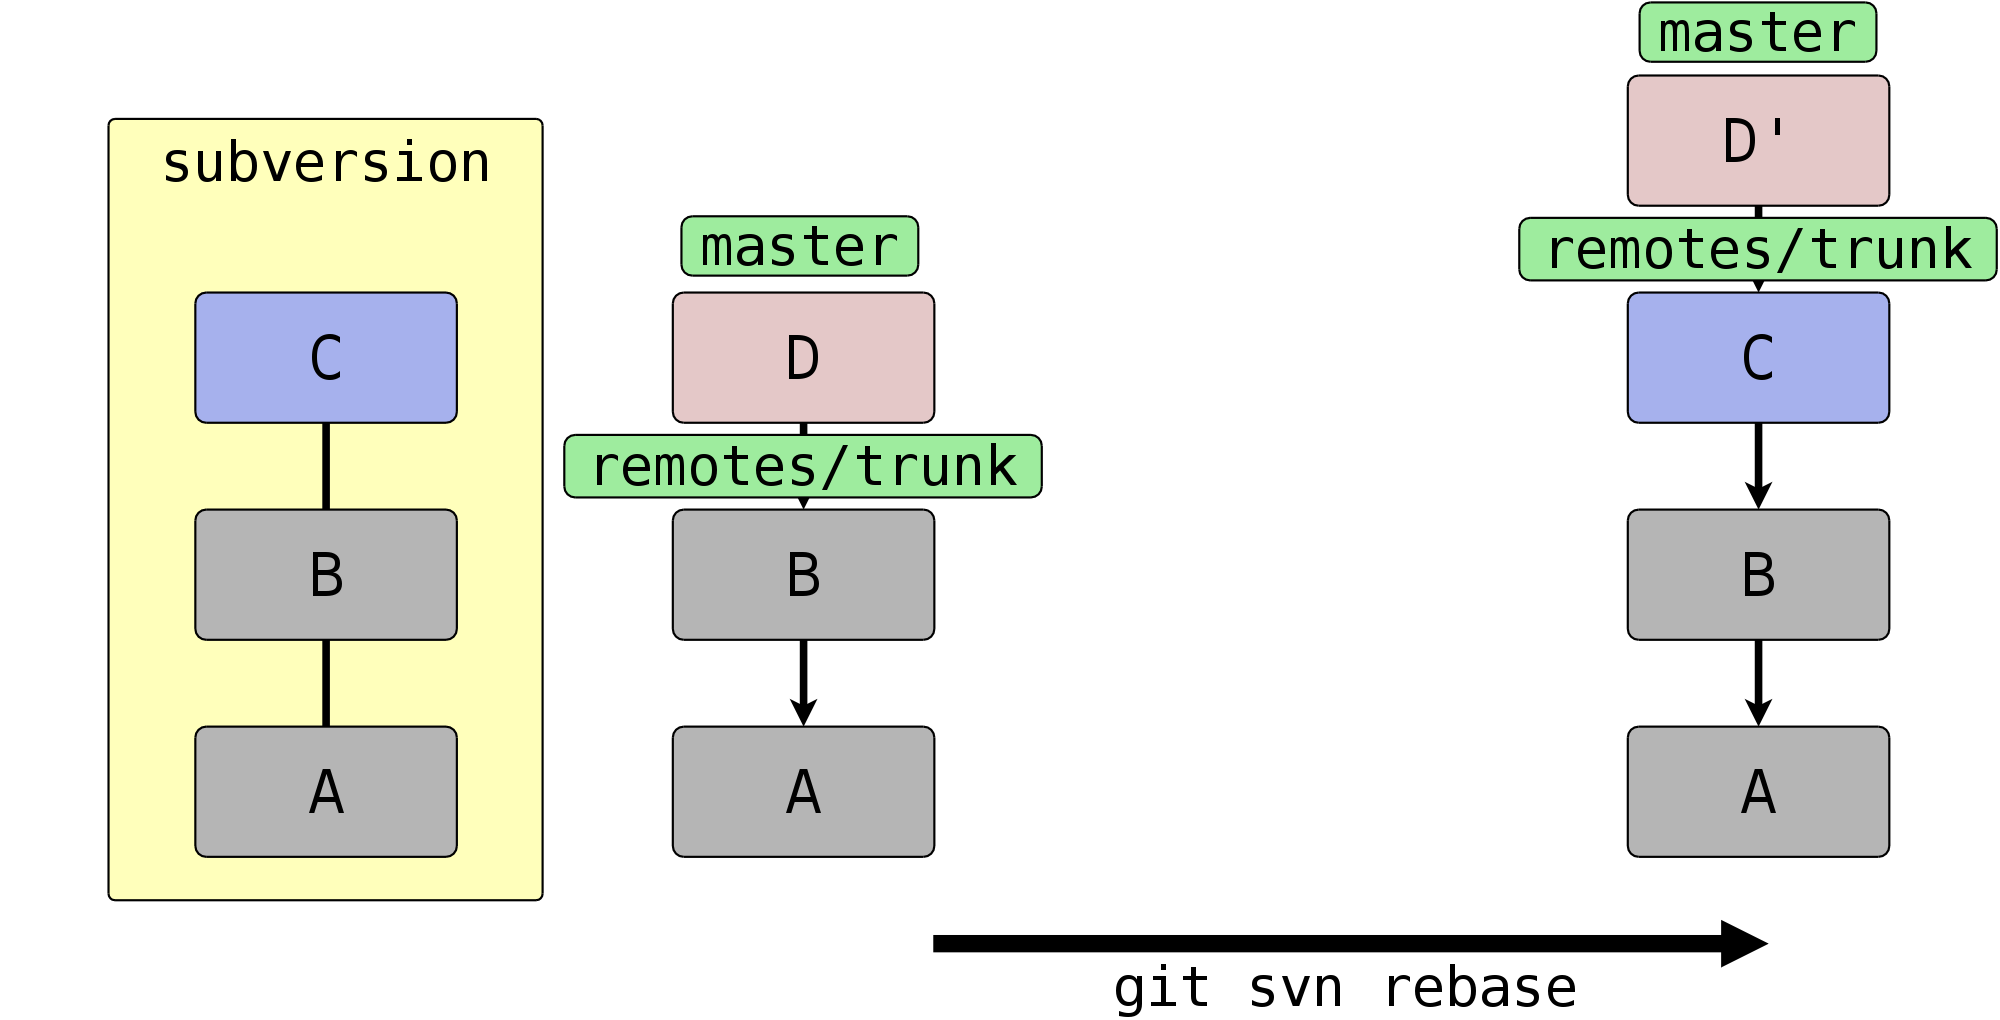
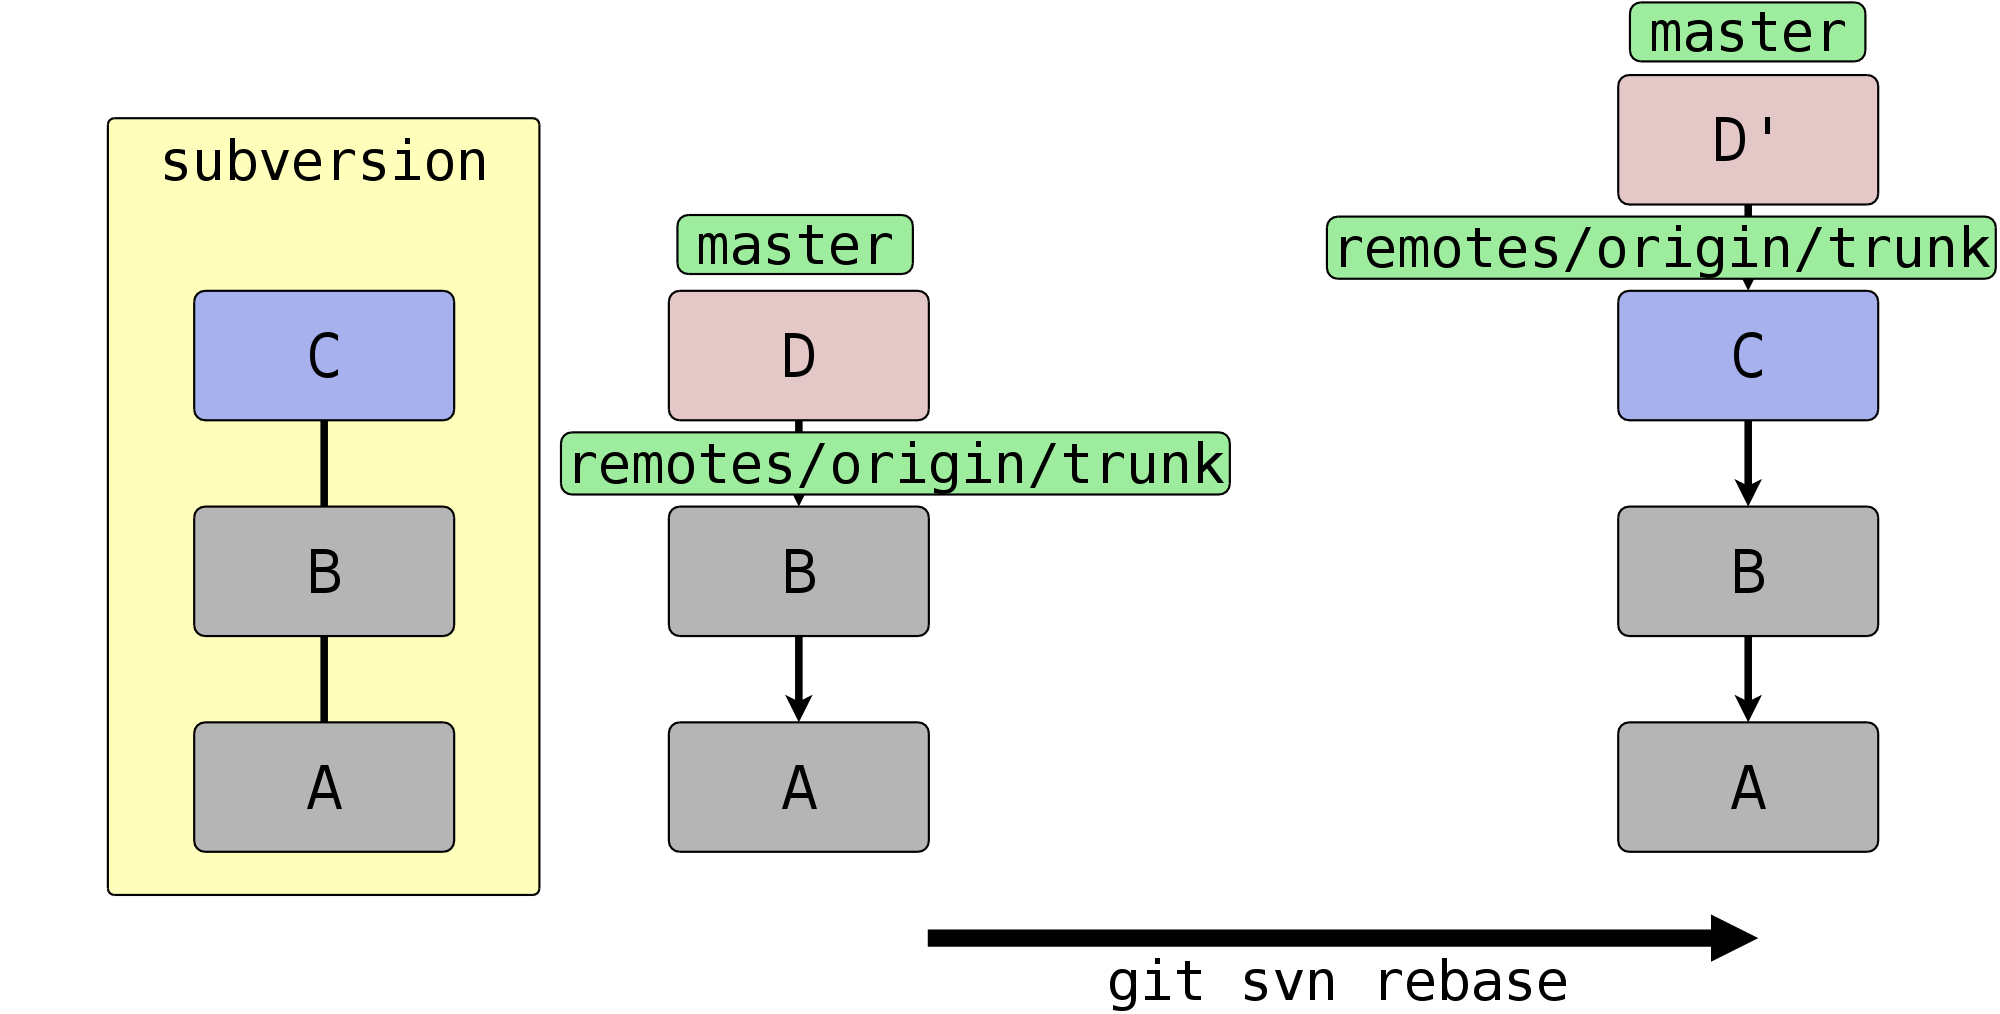
Archäologie: Valentin hat die allten Quelldateien gefunden

diff --git a/bilder_quelldaten/dir-listing/git-branches.tex b/bilder_quelldaten/dir-listing/git-branches.tex
@@ -8,7 +8,7 @@
 \thispagestyle{empty}
 
 \dirtree{%
-.1 .git/refs/remotes/.
+.1 .git/refs/remotes/origin.
 .2 bugfix.
 .2 feature.
 .2 trunk.
